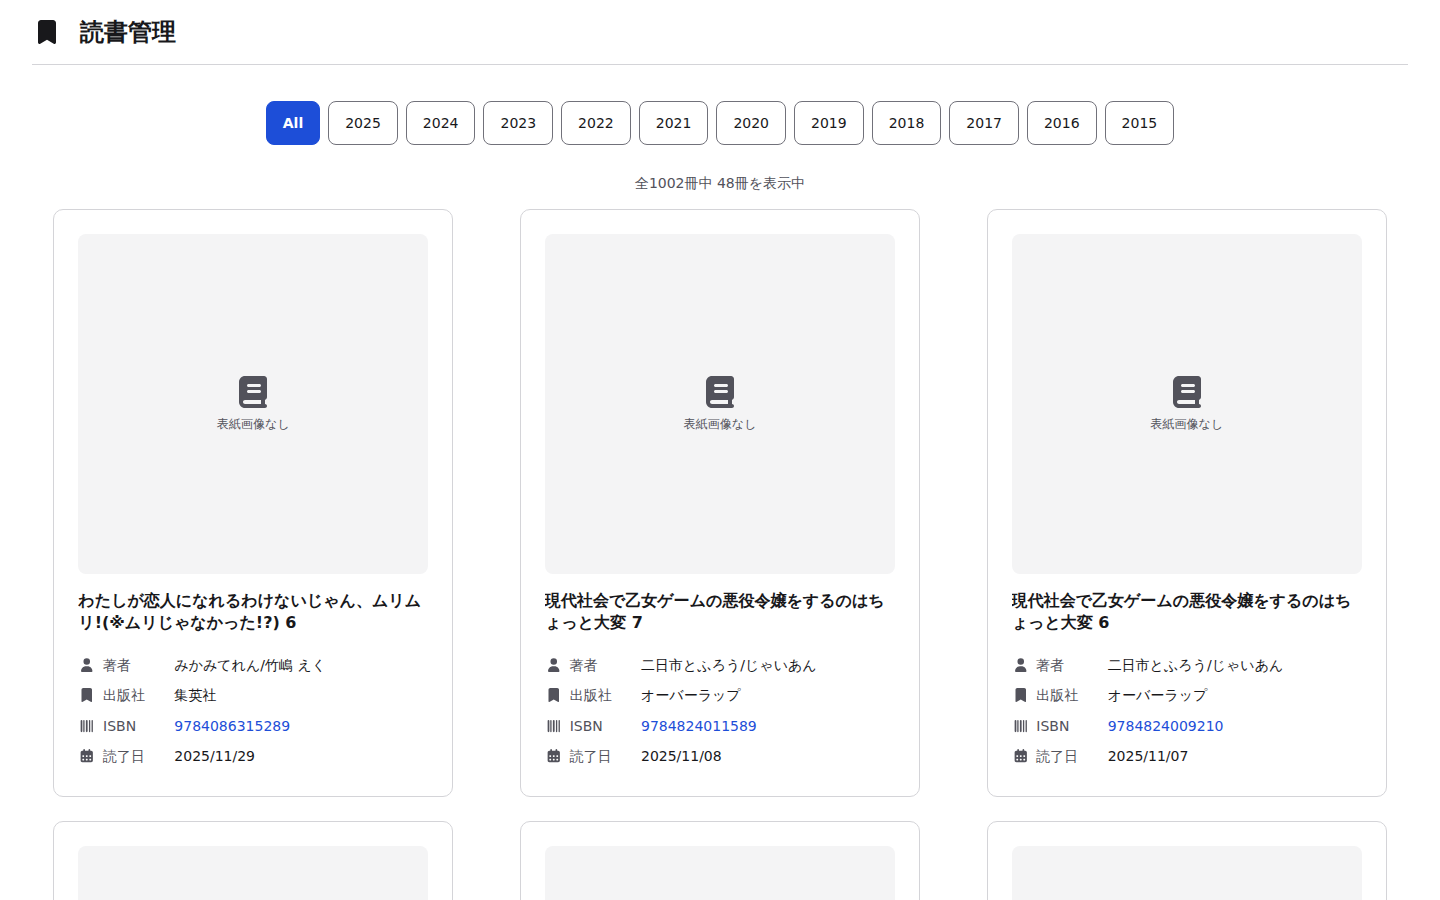
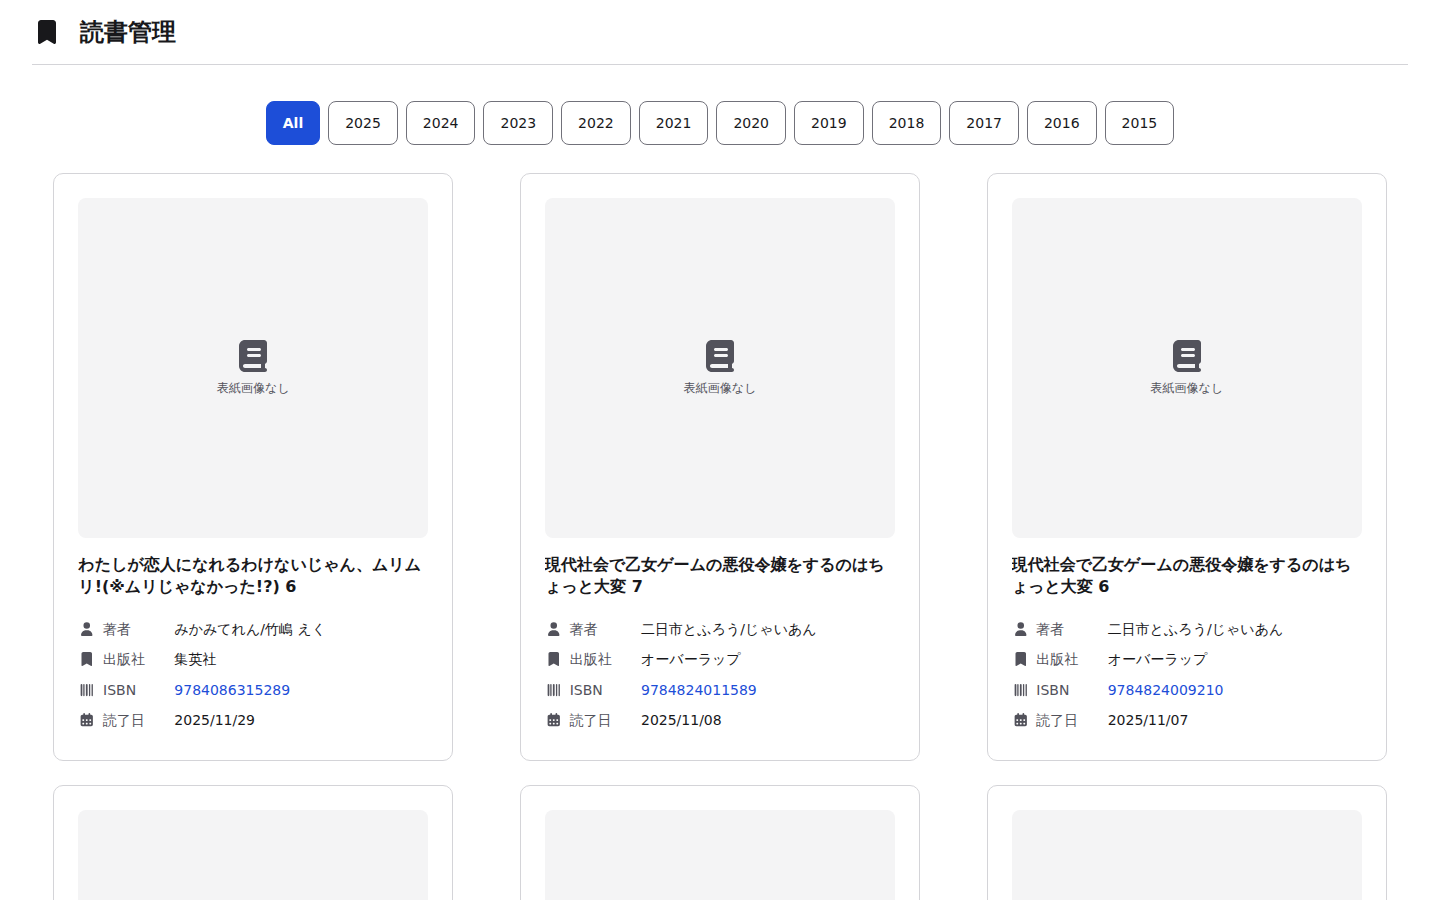
fix(ui): 一覧の件数表示を削除する
「全N冊中 M冊を表示中」は情報として不要との判断。0 件時の空状態には
引き続き totalCount を使うためプロパティ自体は残す。
追加読み込みの通知は読み込み中メッセージ（live region）が担う。

Claude-Session: https://claude.ai/code/session_01Xr51mSbJJTB3eMJ4ezQyAr

diff --git a/src/components/organisms/BookGrid/BookGrid.tsx b/src/components/organisms/BookGrid/BookGrid.tsx
@@ -14,10 +14,6 @@ interface BookGridProps {
 
 const BookGrid = forwardRef<HTMLDivElement, BookGridProps>(
   ({ books, totalCount, hasMore = false, isLoading = false }, ref) => {
-    // 件数は ul の aria-label に隠されていて晴眼者に見えず、しかも
-    // 読み込み済みの件数しか数えていなかった。可視テキストとして出す。
-    const countMessage = `全${totalCount}冊中 ${books.length}冊を表示中`;
-
     if (totalCount === 0) {
       return (
         <div className="flex flex-col items-center gap-3 py-16 text-app-muted">
@@ -29,11 +25,6 @@ const BookGrid = forwardRef<HTMLDivElement, BookGridProps>(
 
     return (
       <div className="w-full">
-        {/* 読み込みのたびに読み上げると煩いため、ここは live region にしない。
-            追加読み込みの通知は下の読み込み中メッセージが担う。 */}
-        <p className="mb-4 text-center text-sm text-app-muted">
-          {countMessage}
-        </p>
         <ul className="mx-auto grid w-full max-w-[1400px] list-none grid-cols-1 justify-items-center gap-6 p-0 sm:grid-cols-2 xl:grid-cols-3">
           {books.map((book) => (
             <li key={book.id} className="w-full max-w-[400px]">

diff --git a/tests/e2e/a11y.spec.ts b/tests/e2e/a11y.spec.ts
@@ -39,10 +39,4 @@ test.describe("Home page accessibility", () => {
     await expect(isbnLink).toHaveAttribute("target", "_blank");
     await expect(isbnLink).toHaveAttribute("rel", /noopener/);
   });
-
-  test("shows the visible result count", async ({ page }) => {
-    await page.goto("/");
-
-    await expect(page.getByText(/全\d+冊中 \d+冊を表示中/)).toBeVisible();
-  });
 });
